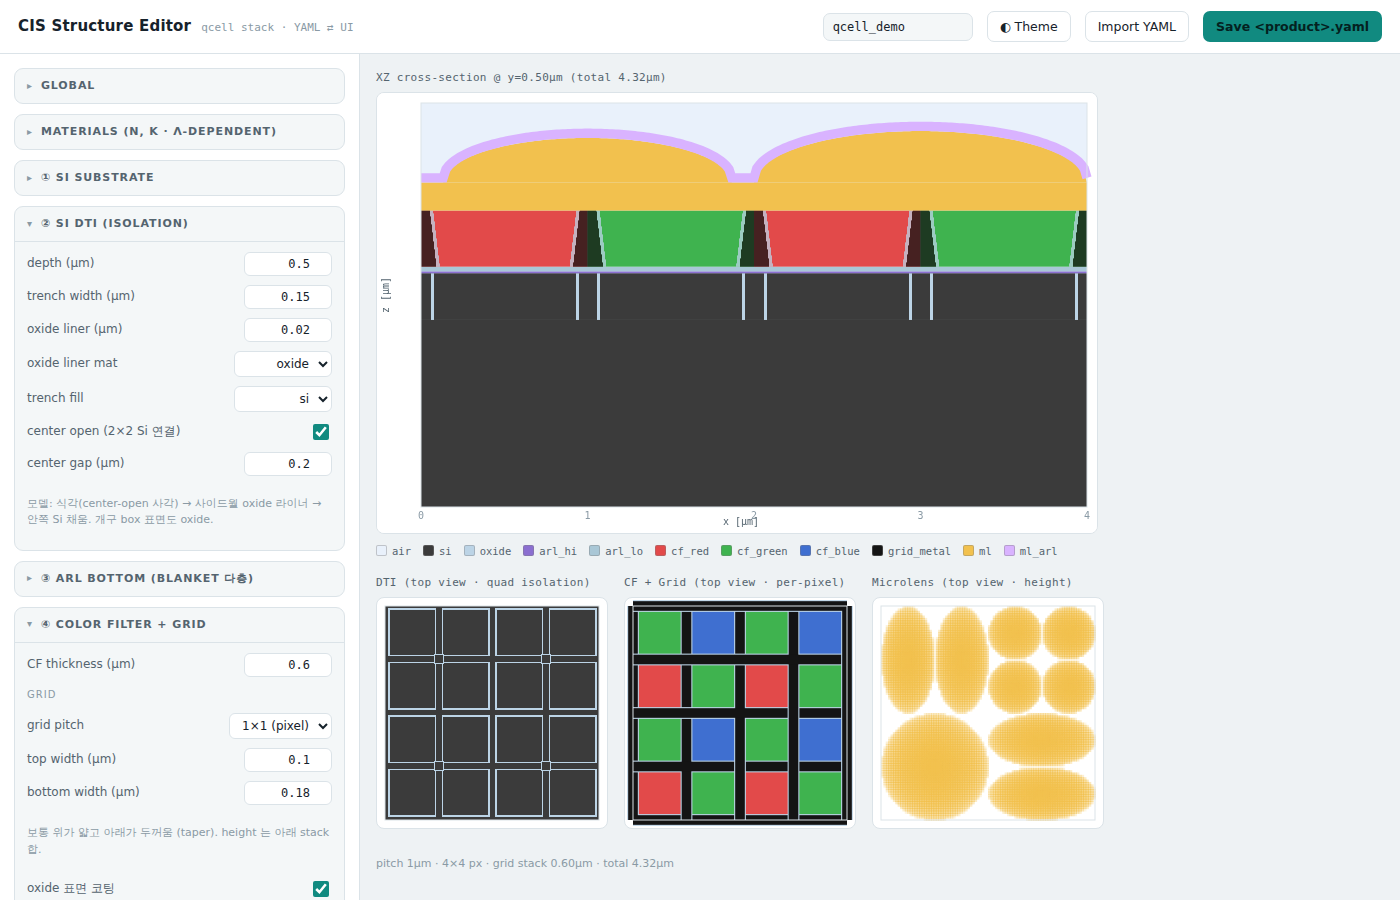
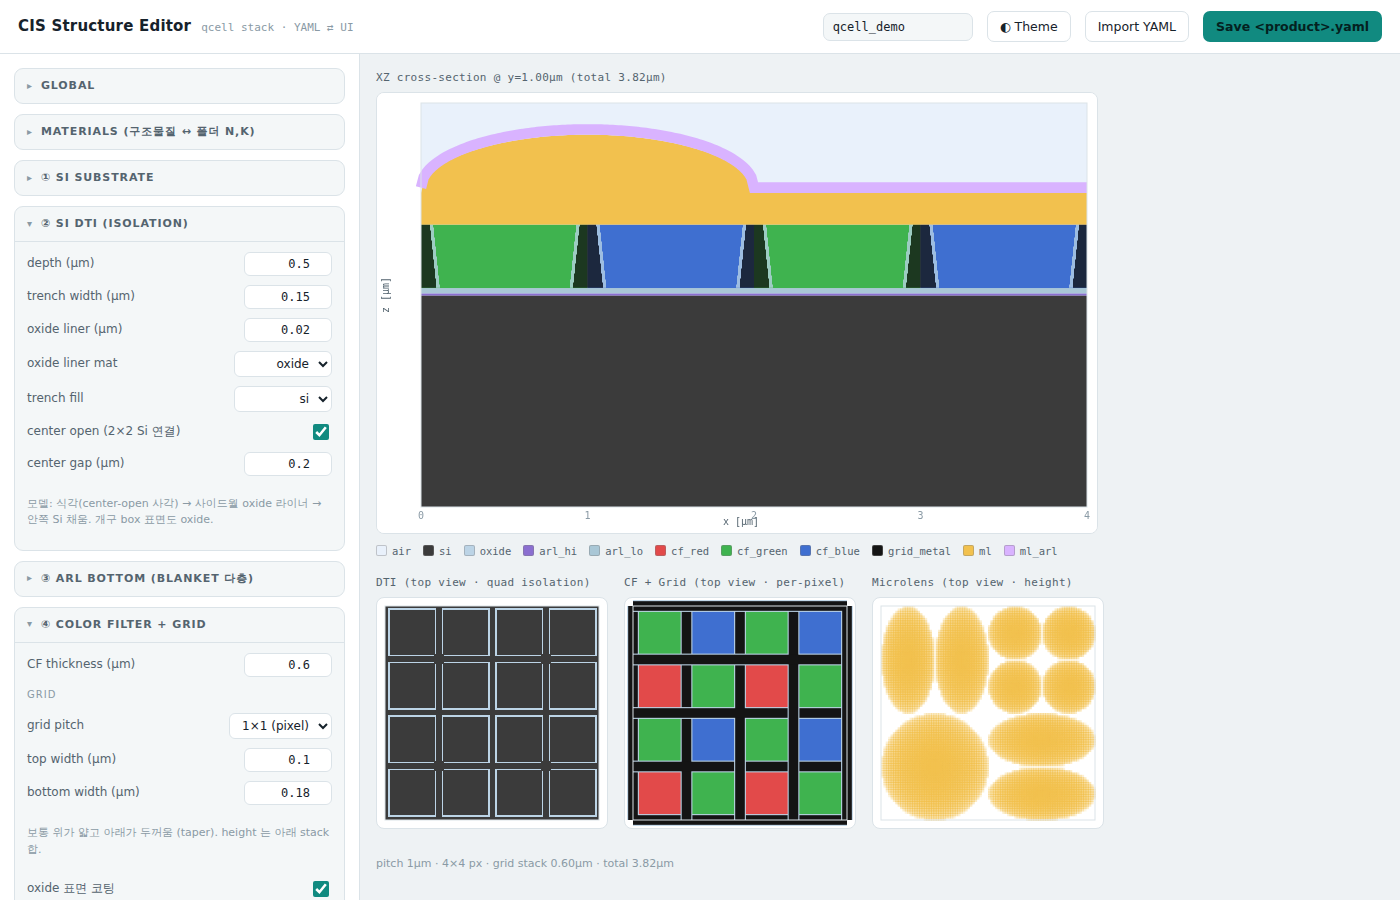
DTI etched into Si substrate; center pure Si; material↔folder-file mapping
- #1 DTI 를 별도 밴드가 아닌 Si substrate 상단 depth 에 식각 -> substrate
  두께 바꾸면 전체가 따라옴(고정 회색 밴드 제거). totalHeight/Htot 반영.
- #3 center 는 안 뚫음 -> 순수 Si (oxide 링 제거, oxide 는 트렌치에만).
- #2 Materials 탭: 구조 물질별로 폴더 n,k 파일(src) 선택. folderLib 도입,
  matNK/export/simulator 가 src 우선 사용. 자동 저장에 folderLib 포함.

Claude-Session: https://claude.ai/code/session_01TWsubYhc5KeSwgcdPsEJZM

Changed region(s): [[0.2764, 0.1244, 0.7986, 0.3422], [0.0921, 0.1244, 0.1843, 0.1556]]

diff --git a/cis_rcwa/editors/structure_editor.html b/cis_rcwa/editors/structure_editor.html
@@ -257,18 +257,25 @@ const DEFAULT = {
     arl_top:[ {material:"ml_arl",thickness_um:0.10} ]
   }
 };
-// 자동 저장(localStorage) 복원 + ref 파장
+// 자동 저장(localStorage) 복원 + ref 파장 + 폴더 물질 라이브러리(파장별 n,k)
 let refLambda = 0.55;
+let folderLib = {};        // { 물질명: [[lam_um,n,k],...] }  materials 폴더에서 로드
 let S = (function(){ try{ const j=localStorage.getItem("cis_struct_v1");
-    if(j){ const d=JSON.parse(j); if(d.refLambda) refLambda=d.refLambda; if(d.S) return d.S; } }catch(e){}
+    if(j){ const d=JSON.parse(j); if(d.refLambda) refLambda=d.refLambda; if(d.folderLib) folderLib=d.folderLib; if(d.S) return d.S; } }catch(e){}
   return structuredClone(DEFAULT); })();
-function saveState(){ try{ localStorage.setItem("cis_struct_v1", JSON.stringify({S,refLambda})); }catch(e){} }
+function saveState(){ try{ localStorage.setItem("cis_struct_v1", JSON.stringify({S,refLambda,folderLib})); }catch(e){} }
 function interp1(x,xs,ys){ if(x<=xs[0])return ys[0]; const n=xs.length; if(x>=xs[n-1])return ys[n-1];
   for(let i=1;i<n;i++){ if(x<=xs[i]){ const t=(x-xs[i-1])/(xs[i]-xs[i-1]); return ys[i-1]+t*(ys[i]-ys[i-1]); } } return ys[n-1]; }
-// 물질 (n,k) @ refLambda — 파장의존(nk 테이블) 있으면 보간, 없으면 상수
-function matNK(name){ const m=S.materials[name]; if(!m)return{n:1,k:0};
-  if(m.nk&&m.nk.length){ const L=m.nk.map(r=>r[0]); return {n:interp1(refLambda,L,m.nk.map(r=>r[1])), k:interp1(refLambda,L,m.nk.map(r=>r[2]))}; }
-  return {n:+m.n,k:+m.k}; }
+// 물질의 n,k 테이블 소스: src 지정 폴더파일 -> 동일이름 폴더파일 -> inline nk -> 없음
+function matTable(name){ const m=S.materials[name]||{};
+  if(m.src && folderLib[m.src]) return folderLib[m.src];
+  if(folderLib[name]) return folderLib[name];
+  if(m.nk && m.nk.length) return m.nk;
+  return null; }
+// 물질 (n,k) @ refLambda
+function matNK(name){ const m=S.materials[name]||{n:1,k:0}; const tab=matTable(name);
+  if(tab && tab.length){ const L=tab.map(r=>r[0]); return {n:interp1(refLambda,L,tab.map(r=>r[1])), k:interp1(refLambda,L,tab.map(r=>r[2]))}; }
+  return {n:+m.n||0, k:+m.k||0}; }
 function parseNKText(txt){ const rows=[];
   txt.split(/\r?\n/).forEach(l=>{ l=l.trim(); if(!l||l[0]==="#")return; const p=l.replace(/,/g," ").split(/\s+/).map(Number);
     if(p.length>=3&&p.slice(0,3).every(v=>!isNaN(v))) rows.push(p.slice(0,3)); });
@@ -327,12 +334,12 @@ function nearBoundary(coord, w){ const p=P(); const u=((coord%p)+p)%p; const h=w
 // 모델: Si -> 트렌치 식각(center-open 사각형) -> 사이드월 oxide 라이너 -> 안쪽 Si 채움
 function dtiAt(x,y){
   const p=P(), st=S.stack.dti, ol=+st.oxide_liner_um, W=+st.wall_width_um, ox=st.liner||"oxide";
-  // 1) center open 사각 box: 트렌치 안 파임 -> Si. box 표면(트렌치 면)엔 oxide.
+  // 1) center: 안 뚫음(식각 X) -> 순수 Si. 오직 트렌치에만 oxide 형성.
   if(st.center_open){
     const gh=(+st.center_gap_um||0)/2;
     const oddIdx=v=>{ const i=Math.round(v/p); return (i%2!==0)?i:(v>i*p?i+1:i-1); };
-    const cx=oddIdx(x)*p, cy=oddIdx(y)*p, dxc=Math.abs(x-cx), dyc=Math.abs(y-cy);
-    if(dxc<gh && dyc<gh){ const edge=Math.min(gh-dxc,gh-dyc); return edge<ol ? ox : null; }
+    const cx=oddIdx(x)*p, cy=oddIdx(y)*p;
+    if(Math.abs(x-cx)<gh && Math.abs(y-cy)<gh) return null;   // pure Si (center 안 뚫음)
   }
   // 2) 트렌치(모든 pixel 경계, 폭 W): 사이드월 ol 만 oxide, 안쪽은 Si 채움
   const dx=Math.abs(x-Math.round(x/p)*p), dy=Math.abs(y-Math.round(y/p)*p), d=Math.min(dx,dy);
@@ -345,7 +352,7 @@ function totalHeight(){
   const s=S.stack;
   const arlB=s.arl_bottom.reduce((a,l)=>a+ +l.thickness_um,0);
   const arlT=s.arl_top.reduce((a,l)=>a+ +l.thickness_um,0);
-  return +s.si_substrate.thickness_um + +s.dti.depth_um + arlB +
+  return +s.si_substrate.thickness_um + arlB +               // DTI 는 substrate 내 식각(별도 두께 X)
     Math.max(+s.color_filter.thickness_um, stackTotalGrid()) + +s.ml_planar.thickness_um +
     +s.microlens.sag_height_um + arlT + +S.grid.air_margin_um;
 }
@@ -358,7 +365,7 @@ function drawXZ(){
   const arlB=s.arl_bottom.reduce((a,l)=>a+ +l.thickness_um,0);
   const arlTtot=s.arl_top.reduce((a,l)=>a+ +l.thickness_um,0);
   const cfH=Math.max(+s.color_filter.thickness_um, stackTotalGrid());
-  const Htot=+s.si_substrate.thickness_um+ +s.dti.depth_um+arlB+cfH+ +s.ml_planar.thickness_um
+  const Htot=+s.si_substrate.thickness_um+arlB+cfH+ +s.ml_planar.thickness_um
     + +s.microlens.sag_height_um+arlTtot+ +S.grid.air_margin_um;
   const padL=44,padB=26,padT=10,padR=10;
   const sx=(W-padL-padR)/span, sz=(H-padB-padT)/Htot;
@@ -370,14 +377,14 @@ function drawXZ(){
   rect(0,span,0,Htot,matColor("air"));
 
   let z=0;
-  // 1) Si substrate
-  rect(0,span,z,z+ +s.si_substrate.thickness_um, matColor(s.si_substrate.material)); z+=+s.si_substrate.thickness_um;
-  // 2) DTI band — cutY 라인을 x 로 rasterize (개구 사각/코팅 정확 반영)
-  const dth=+s.dti.depth_um; rect(0,span,z,z+dth,matColor(s.dti.fill));   // Si 배경
+  // 1) Si substrate (DTI 는 별도 밴드가 아니라 이 substrate 상단 depth 에 식각됨)
+  const siTh=+s.si_substrate.thickness_um, dth=Math.min(+s.dti.depth_um, siTh);
+  rect(0,span,z,z+siTh, matColor(s.si_substrate.material));   // 전체 Si
+  // DTI: substrate 상단 depth 구간 [siTh-dth, siTh] 에 트렌치(oxide 라이너)만 rasterize
   { const wpx=Math.round((W-padL-padR));
     for(let px=0;px<wpx;px++){ const x=px/sx; const m=dtiAt(x,cutY); if(!m) continue;
-      ctx.fillStyle=matColor(m); ctx.fillRect(padL+px, Z(z+dth), 1, dth*sz); } }
-  z+=dth;
+      ctx.fillStyle=matColor(m); ctx.fillRect(padL+px, Z(siTh), 1, dth*sz); } }
+  z+=siTh;
   // 3) ARL bottom (blanket 다층)
   for(const l of s.arl_bottom){ rect(0,span,z,z+ +l.thickness_um,matColor(l.material)); z+=+l.thickness_um; }
   // 4) CF + grid  (CF 색 배경 위에 grid 를 taper/다층/oxide코팅 rasterize)
@@ -526,21 +533,27 @@ function buildSide(){
     (()=>{const i=h("input",{type:"number",step:"0.01",value:refLambda});
       i.oninput=()=>{refLambda=parseFloat(i.value);buildSide();render();};return i;})()]);
   const loadBtn=h("button",{class:"btn mini",onclick:()=>document.getElementById("matFolder").click()},["📁 Load materials folder (.txt)"]);
-  const mtbl=h("table",{}); mtbl.appendChild(h("tr",{},[h("th",{},["material"]),h("th",{},["n"]),h("th",{},["k"]),h("th",{},["λ"]),h("th",{},[""])]));
+  const folderNames=Object.keys(folderLib);
+  const mtbl=h("table",{}); mtbl.appendChild(h("tr",{},[h("th",{},["구조 물질"]),h("th",{},["n,k 파일 (폴더)"]),h("th",{},["n"]),h("th",{},["k"]),h("th",{},[""])]));
   Object.entries(S.materials).forEach(([name,mk])=>{ const tr=h("tr",{class:"mat"});
     tr.appendChild(h("td",{},[name]));
-    const disp=mk.nk&&mk.nk.length, at=matNK(name);
-    if(disp){ tr.appendChild(h("td",{},[at.n.toFixed(3)])); tr.appendChild(h("td",{},[at.k.toFixed(3)]));
-      tr.appendChild(h("td",{},[h("span",{class:"hint",title:mk.nk.length+" pts"},["λ✓"])])); }
+    // n,k 파일 선택 (폴더 물질)
+    const sel=h("select",{}); sel.style.width="100%";
+    const cur = (mk.src&&folderLib[mk.src])?mk.src : (folderLib[name]?name:"(const)");
+    [["(const)","(상수)"], ...folderNames.map(fn=>[fn,fn])].forEach(([v,t])=>{ const o=h("option",{value:v},[t]); if(cur===v)o.selected=true; sel.appendChild(o); });
+    sel.onchange=()=>{ mk.src = sel.value==="(const)"?undefined:sel.value; buildSide(); render(); };
+    tr.appendChild(h("td",{},[sel]));
+    const at=matNK(name), hasTab=!!matTable(name);
+    if(hasTab){ tr.appendChild(h("td",{},[at.n.toFixed(3)])); tr.appendChild(h("td",{},[at.k.toFixed(3)])); }
     else { const ni=h("input",{type:"number",step:"0.01",value:mk.n}); ni.oninput=()=>{mk.n=parseFloat(ni.value);render();};
       const ki=h("input",{type:"number",step:"0.001",value:mk.k}); ki.oninput=()=>{mk.k=parseFloat(ki.value);render();};
-      tr.appendChild(h("td",{},[ni])); tr.appendChild(h("td",{},[ki])); tr.appendChild(h("td",{},[""])); }
+      tr.appendChild(h("td",{},[ni])); tr.appendChild(h("td",{},[ki])); }
     tr.appendChild(h("td",{},[h("button",{class:"del",onclick:()=>{delete S.materials[name];buildSide();render();}},["✕"])]));
     mtbl.appendChild(tr); });
   const addMat=h("div",{class:"row"},[ (()=>{const i=h("input",{type:"text",placeholder:"new material name",id:"newmat"});i.style.flex="1";return i;})(),
     h("button",{class:"btn mini",onclick:()=>{const nm=document.getElementById("newmat").value.trim(); if(nm&&!S.materials[nm]){S.materials[nm]={n:1.5,k:0};buildSide();render();}}},["+ add"]) ]);
-  side.appendChild(card("Materials (n, k · λ-dependent)", false,[refRow,loadBtn,mtbl,addMat,
-    h("p",{class:"hint"},["📁 폴더의 <name>.txt (열: 파장 n k) 자동 로드 → 물질별 파장의존 n,k (λ✓). 구조에서 물질 select 시 그 값 물려짐. 편집상태 자동 저장(localStorage)."]) ]));
+  side.appendChild(card("Materials (구조물질 ↔ 폴더 n,k)", false,[refRow,loadBtn,mtbl,addMat,
+    h("p",{class:"hint"},["각 구조 물질에 폴더의 n,k 파일을 지정(예: Si→si.txt). ref λ 에서의 n,k 표시. 📁 로 폴더 로드 후 이름 같으면 자동 매핑. 자동 저장(localStorage)."]) ]));
 
   // Si substrate
   const ss=S.stack.si_substrate;
@@ -615,14 +628,16 @@ const matFolderInput=document.getElementById("matFolder");
 matFolderInput.onchange=async(e)=>{ const files=[...e.target.files]; let n=0;
   for(const f of files){ if(!/\.txt$/i.test(f.name))continue; let txt; try{txt=await f.text();}catch(_){continue;}
     const nk=parseNKText(txt); if(!nk)continue; const name=f.name.replace(/\.txt$/i,"");
-    const L=nk.map(r=>r[0]); S.materials[name]={nk, n:interp1(refLambda,L,nk.map(r=>r[1])), k:interp1(refLambda,L,nk.map(r=>r[2]))}; n++; }
-  buildSide(); render(); e.target.value=""; alert(n+" material(s) 로드됨 (파장별 n,k)."); };
+    folderLib[name]=nk; n++; }
+  // 구조 물질 이름이 폴더 파일과 같으면 자동 매핑(src)
+  for(const role in S.materials){ if(!S.materials[role].src && folderLib[role]) S.materials[role].src=role; }
+  buildSide(); render(); e.target.value=""; alert(n+" 개 물질 n,k 파일 로드됨 (파장별)."); };
 
 document.getElementById("exportBtn").onclick=()=>{
   // 파장별 n,k 테이블은 materials/ 폴더가 소스 -> YAML 에는 ref λ 상수값만
   const exp=structuredClone(S);
-  for(const m in exp.materials){ if(exp.materials[m].nk){ const at=matNK(m);
-    exp.materials[m]={n:+at.n.toFixed(4),k:+at.k.toFixed(4)}; } }
+  for(const m in exp.materials){ const at=matNK(m), src=exp.materials[m].src;
+    exp.materials[m]={n:+at.n.toFixed(4),k:+at.k.toFixed(4)}; if(src) exp.materials[m].src=src; }
   const pname=(S.product||"structure").trim().replace(/[^\w\-.]/g,"_")||"structure";
   const text=`# CIS structure · product: ${S.product||""}\n# 파장별 n,k 는 materials/ 폴더 txt 사용 (아래 n,k 는 λ=${refLambda}µm 상수 fallback)\n`+YAML.emit(exp);
   document.getElementById("dlgTitle").textContent=`Save · ${pname}.yaml`;

diff --git a/cis_rcwa/src/sim/simulator.py b/cis_rcwa/src/sim/simulator.py
@@ -85,7 +85,11 @@ class RCWAPlaneWaveSimulator:
 
     # -----------------------------------------------------------------
     def _nk_at(self, name, lam):
-        """물질 name 의 (n,k) @ lam(um).  우선순위: materials/ 폴더 -> config dispersion -> 상수."""
+        """물질 name 의 (n,k) @ lam(um).  우선순위: materials/ 폴더(src|name) -> dispersion -> 상수."""
+        mconf = (self.cfg.get("materials", {}) or {}).get(name, {}) or {}
+        src = mconf.get("src", name)                 # 물질별 n,k 파일 지정(src) 우선
+        if self.matlib and self.matlib.has(src):
+            return self.matlib.nk(src, lam)
         if self.matlib and self.matlib.has(name):
             return self.matlib.nk(name, lam)
         disp = self.cfg.get("dispersion", {})
